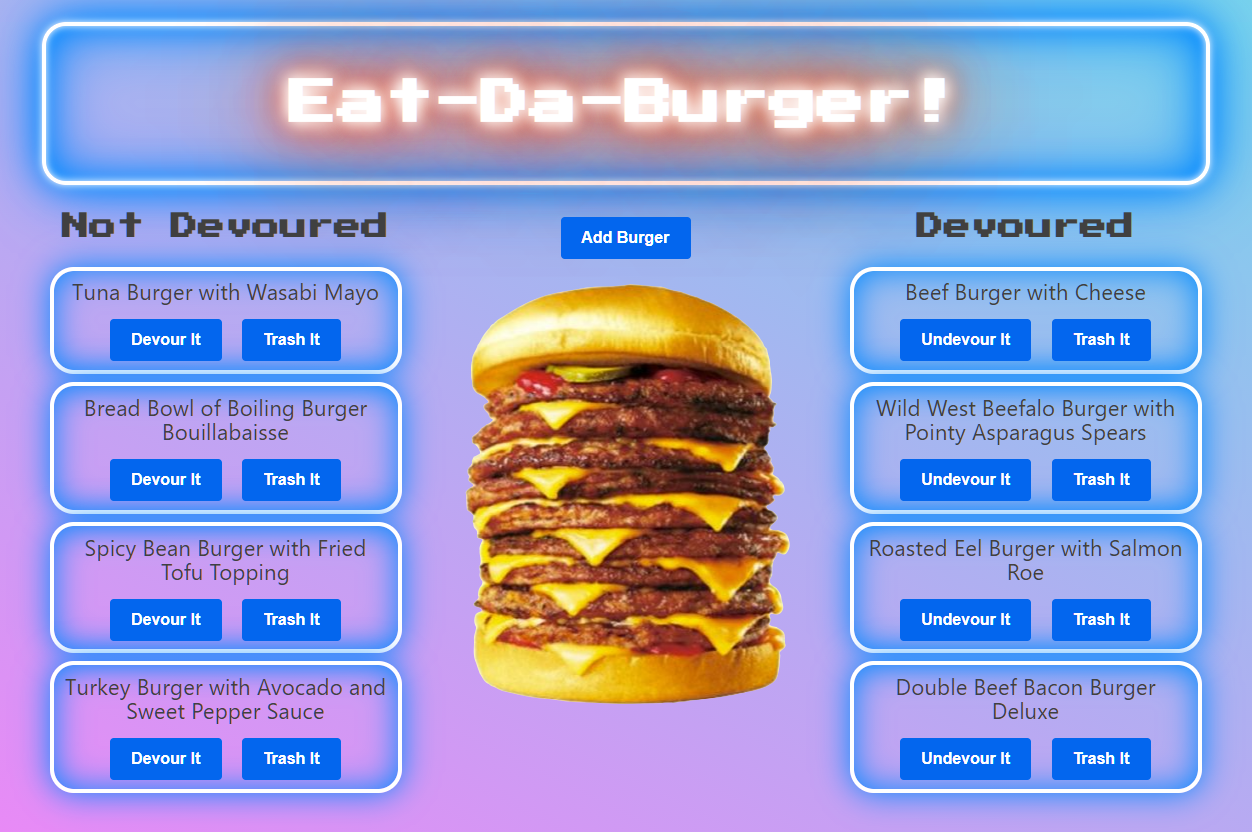
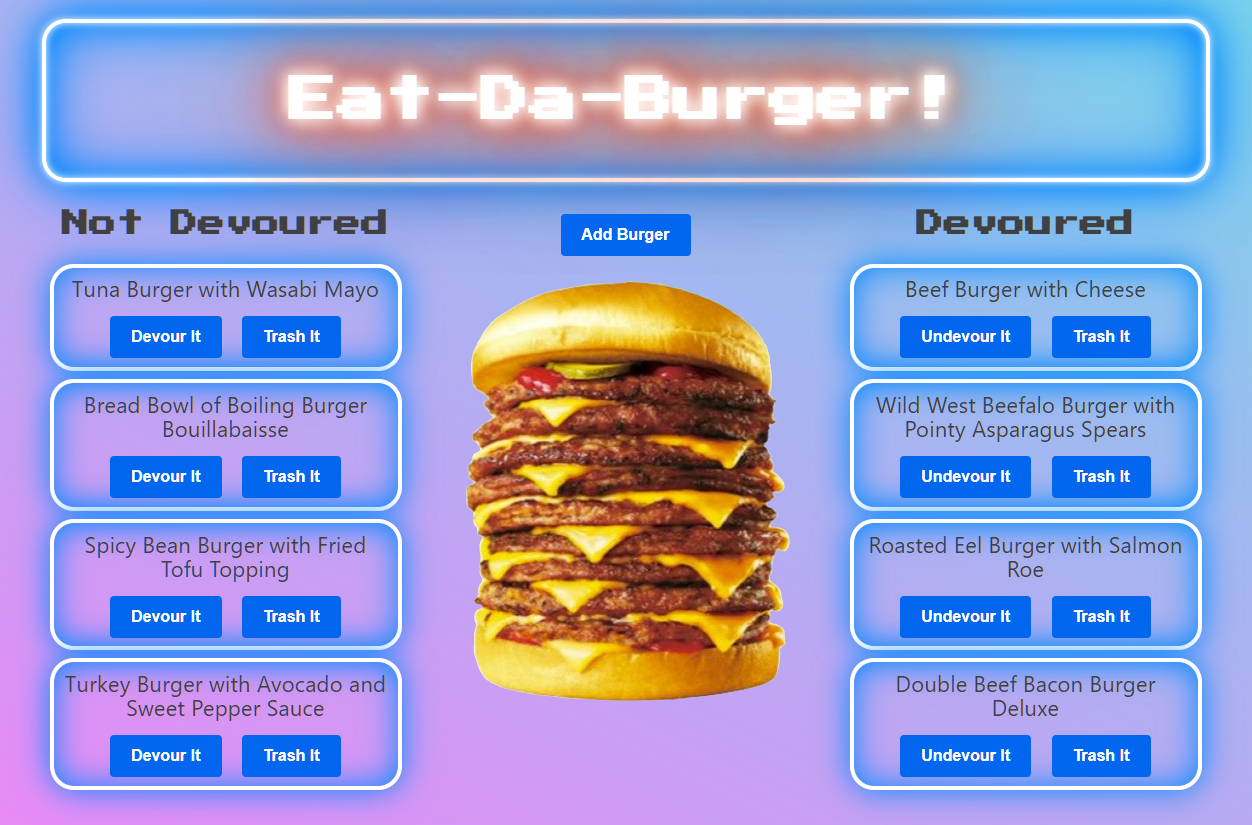
Apply background-attachment: fixed

diff --git a/public/assets/css/style.css b/public/assets/css/style.css
@@ -5,30 +5,33 @@
 html,
 body {
   text-align: center;
+  overflow: auto;
   margin: 0;
   height: 100%;
   background-color: #6cdbeb;
-  background-image: linear-gradient(to right top,#ff7bf8 ,#6cdbeb);
   place-items: center;
-
-  /* position: relative;
+  position: relative;
+  background-attachment: fixed;
   background-image: linear-gradient(
     to right top,
     #ff7bf8,
     #6cdbeb
   );
-  z-index: 1; */
+  /* z-index: 1; */
 }
 
-/* body::before {
+/* html,
+body::before {
   position: absolute;
+  overflow: auto;
+  height: 100%;
   content: "";
   top: 0;
   right: 0;
   bottom: 0;
   left: 0;
   background-image: linear-gradient(
-    to left bottom,
+    to right top,
     #ff7bf8,
     #6cdbeb
   );
@@ -36,6 +39,7 @@ body {
   transition: opacity 0.5s linear;
   opacity: 0;
 }
+html,
 body:hover::before {
   opacity: 1;
 } */
@@ -45,16 +49,19 @@ h2 {
   font-size: 1.7rem;
   margin-top: 0;
 }
+
 p {
   font-size: 1.4rem;
   line-height: 1.5rem;
 }
+
 img {
   margin-top: 3.5rem;
 }
 .nameText {
   margin: .5rem;
 }
+
 .burgerBlock {
   border: 0.3rem solid #fff;
   border-radius: 1.5rem;
@@ -64,6 +71,7 @@ img {
     0 0 2rem #08f,
     inset 0 0 2rem #08f;
 }
+
 .button {
   font-size: 1rem;
   margin: .5rem;
@@ -93,17 +101,20 @@ margin-left: auto;
 margin-right: auto;
 z-index: 2;
 }
+
 #newBurger {
   margin-top: 1rem;
 }
 
-/*  Flicering Neon effect borrowed from George Park
+/*  Flickering Neon effect borrowed from George Park
  https://codepen.io/GeorgePark/pen/MrjbEr  */
+
 :root {
    /* Set neon color */
   --neon-text-color: #f40;
   --neon-border-color: #08f;
 }
+
 h1 {
   font-family: 'Press Start 2P', cursive;
   font-size: 3rem;

diff --git a/public/assets/js/burgers.js b/public/assets/js/burgers.js
@@ -30,7 +30,7 @@ document.addEventListener("DOMContentLoaded", (event) => {
           body: JSON.stringify(newDevouredState),
         }).then((response) => {
           // Check that the response is all good
-          // Reload the page so the user can see the new quote
+          // Reload the page so the user can see the new burger
           if (response.ok) {
             console.log(`Changed devoured to: ${newDevoured}`);
             location.reload("/");

diff --git a/server.js b/server.js
@@ -23,7 +23,7 @@ app.use(routes);
 const PORT = process.env.PORT || 3000;
 app.listen(PORT, (err) => {
   if (err) {
-    console.log(err)
+    console.log(err);
   } else {
     console.log(`Server listening on: http://localhost:${PORT}`);
   }

diff --git a/config/connection.js b/config/connection.js
@@ -9,8 +9,8 @@ if (process.env.JAWSDB_URL) {
     user: "root",
     password: "root",
     database: "burger_db"
-  })
-};
+  });
+}
 // Make connection.
 connection.connect((err) => {
   if (err) {
